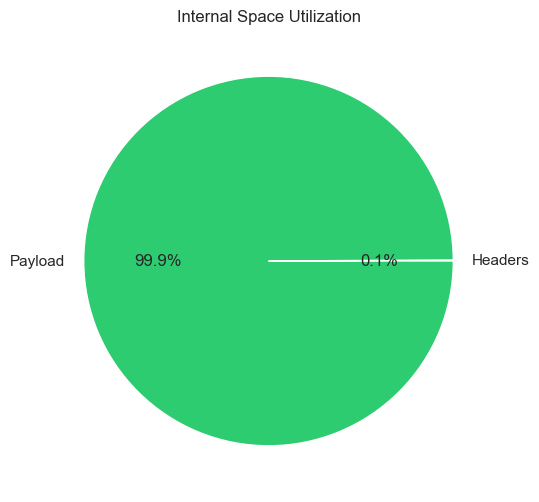
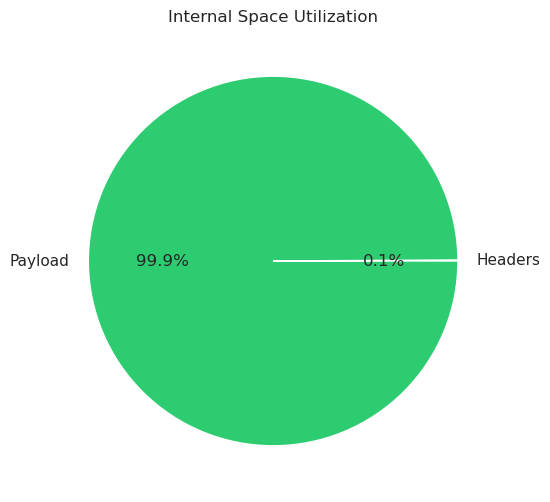
docs: expand recovery scaling points to 1M

diff --git a/experiments/recovery_scaling_bench.cc b/experiments/recovery_scaling_bench.cc
@@ -12,7 +12,7 @@ int main() {
     options.create_if_missing = true;
     std::ofstream csv("../results/wal_performance_telemetry.csv", std::ios_base::app);
 
-    std::vector<int> volumes = {10000, 50000, 100000, 500000};
+    std::vector<int> volumes = {10000, 100000, 250000, 500000, 750000, 1000000};
     
     for(int vol : volumes) {
         std::string kDBPath = "/tmp/rocksdb_recovery_scaling_bench_" + std::to_string(vol);
